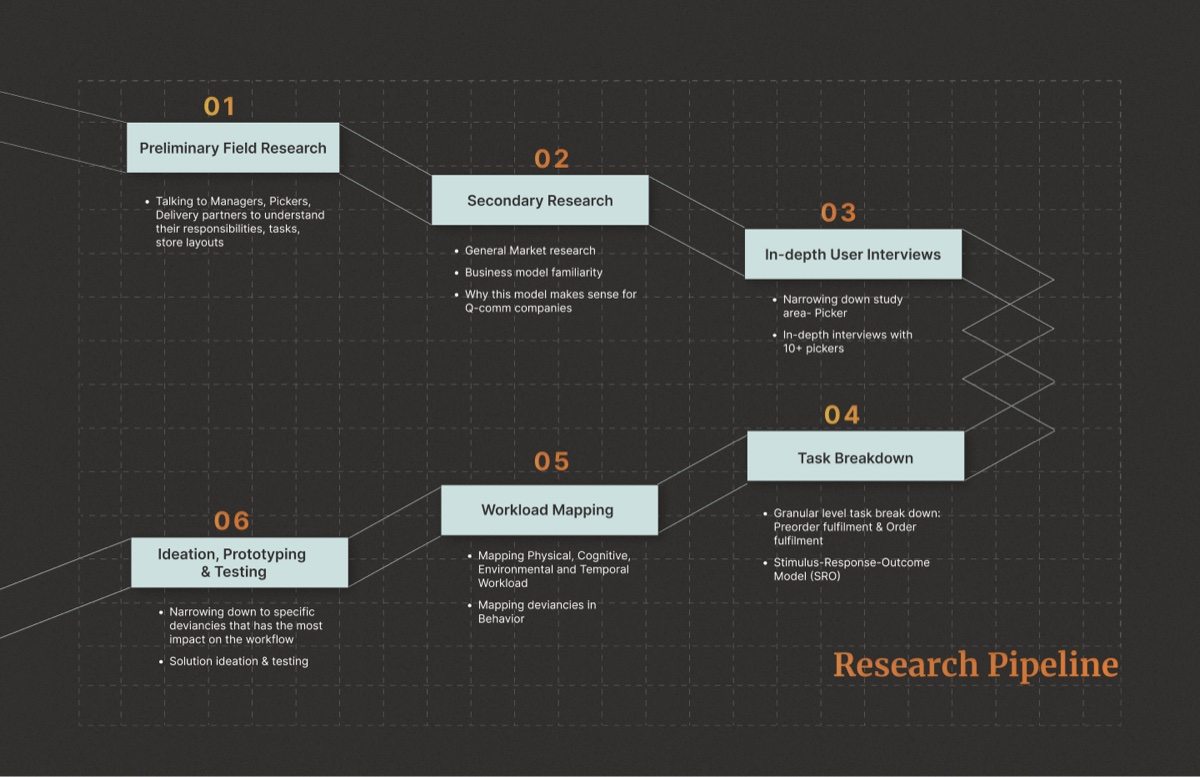
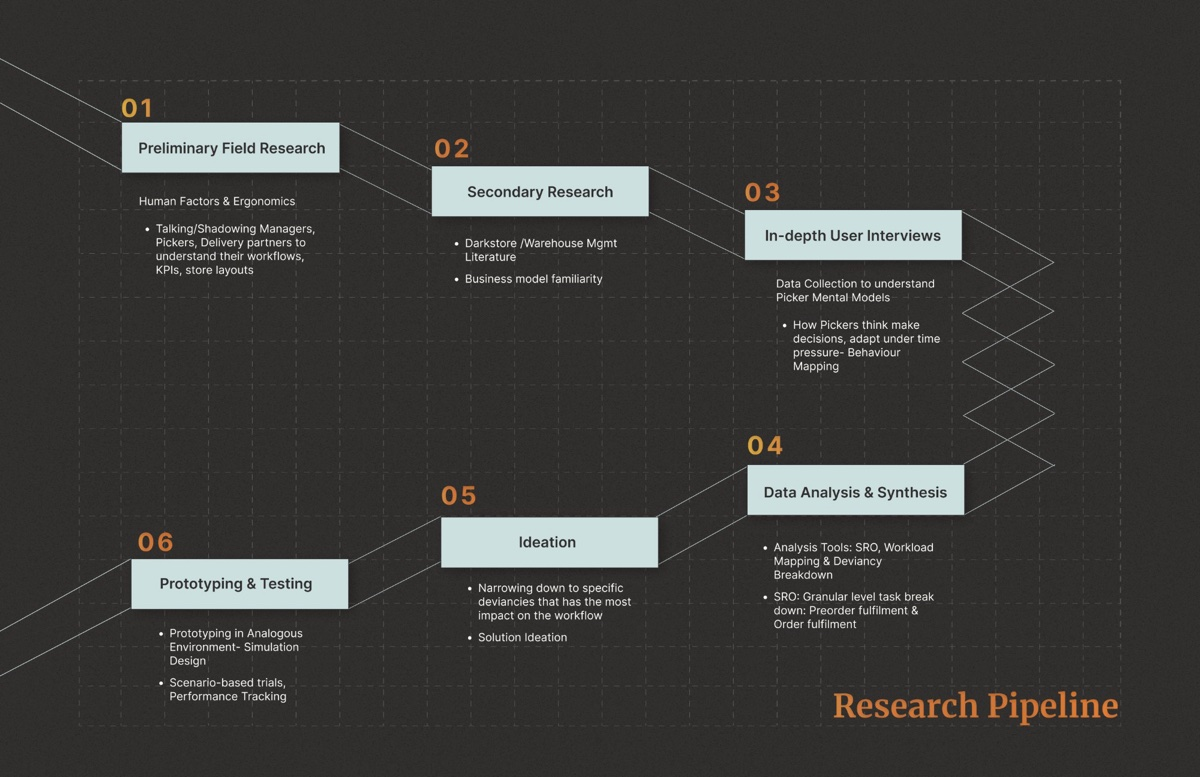
Replace the Research Pipeline slide in Last Mile Inside
Slide 3 is now the updated Research Pipeline, served at its 2000px
original and a 1200px copy; the 2400px copy of the old slide is removed.

diff --git a/last-mile-inside.html b/last-mile-inside.html
@@ -36,7 +36,7 @@
       <h1 class="visually-hidden">Last Mile Inside: Rethinking Operational efficiency in Darkstores</h1>
       <img src="assets/case-studies/lmi/01-1200.jpg" srcset="assets/case-studies/lmi/01-1200.jpg 1200w, assets/case-studies/lmi/01-2400.jpg 2400w, assets/case-studies/lmi/01-3200.jpg 3200w, assets/case-studies/lmi/01.jpg 3840w" sizes="(max-width: 640px) calc(100vw - 40px), calc(100vw - 120px)" width="3840" height="1826" alt="Last Mile Inside case study, slide 1 of 28" fetchpriority="high" decoding="async">
       <img src="assets/case-studies/lmi/02-1200.jpg" srcset="assets/case-studies/lmi/02-1200.jpg 1200w, assets/case-studies/lmi/02-2400.jpg 2400w, assets/case-studies/lmi/02.jpg 2880w" sizes="(max-width: 640px) calc(100vw - 40px), calc(100vw - 120px)" width="2880" height="1755" alt="Last Mile Inside case study, slide 2 of 28" loading="eager" decoding="async">
-      <img src="assets/case-studies/lmi/04-1200.jpg" srcset="assets/case-studies/lmi/04-1200.jpg 1200w, assets/case-studies/lmi/04-2400.jpg 2400w, assets/case-studies/lmi/04.jpg 2880w" sizes="(max-width: 640px) calc(100vw - 40px), calc(100vw - 120px)" width="2880" height="1865" alt="Last Mile Inside case study, slide 3 of 28" loading="lazy" decoding="async">
+      <img src="assets/case-studies/lmi/04-1200.jpg" srcset="assets/case-studies/lmi/04-1200.jpg 1200w, assets/case-studies/lmi/04.jpg 2000w" sizes="(max-width: 640px) calc(100vw - 40px), calc(100vw - 120px)" width="2000" height="1295" alt="Last Mile Inside case study, slide 3 of 28" loading="lazy" decoding="async">
       <img src="assets/case-studies/lmi/05-1200.jpg" srcset="assets/case-studies/lmi/05-1200.jpg 1200w, assets/case-studies/lmi/05-2400.jpg 2400w, assets/case-studies/lmi/05.jpg 2880w" sizes="(max-width: 640px) calc(100vw - 40px), calc(100vw - 120px)" width="2880" height="1368" alt="Last Mile Inside case study, slide 4 of 28" loading="lazy" decoding="async">
       <img src="assets/case-studies/lmi/06-1200.jpg" srcset="assets/case-studies/lmi/06-1200.jpg 1200w, assets/case-studies/lmi/06.jpg 2013w" sizes="(max-width: 640px) calc(100vw - 40px), calc(100vw - 120px)" width="2013" height="4096" alt="Last Mile Inside case study, slide 5 of 28" loading="lazy" decoding="async">
       <div class="slide" style="aspect-ratio: 1160 / 710.5" aria-label="Last Mile Inside case study, slide 6 of 28" role="group"><div style="background-color:#fff;position:relative;width:100%;height:100%"><div style="position:absolute;background-color:#262423;inset:0 0 calc(-4.82 * var(--u)) 0"></div><div style="position:absolute;aspect-ratio:1920 / 1080;left:calc(-51.56 * var(--u));right:calc(-51.56 * var(--u));top:50%;translate:0 -50%"><div style="position:absolute;inset:0;overflow:hidden;pointer-events:none"><img alt="" src="assets/case-studies/lmi/slides/texture-noise.png" loading="lazy" decoding="async" style="position:absolute;height:100%;left:3.99%;max-width:none;top:0;width:91.93%"></div></div><p style="overflow-wrap:break-word;position:absolute;font-family:&#x27;Inter&#x27;;font-weight:400;line-height:normal;left:calc(77.03 * var(--u));font-style:normal;color:#d9d9d9;font-size:calc(14.137 * var(--u));top:calc(124.45 * var(--u));width:calc(298.225 * var(--u))">Observations w.r.t. Workload, Work Process</p><p style="overflow-wrap:break-word;position:absolute;-webkit-background-clip:text;background-clip:text;font-family:&#x27;Merriweather&#x27;;font-weight:700;line-height:normal;left:calc(77.03 * var(--u));font-size:calc(23.865 * var(--u));color:transparent;top:calc(50% - (265.83 * var(--u)));width:calc(253.146 * var(--u));font-variation-settings:&quot;wdth&quot; 100;background-image:linear-gradient(88.71211651023332deg, rgb(229, 205, 69) 14.412%, rgba(236, 132, 63, 0.858) 28.362%, rgba(238, 130, 54, 0.85) 73.743%, rgb(238, 130, 54) 116.91%)">Key Findings</p><div style="overflow-wrap:break-word;position:absolute;display:flex;flex-direction:column;font-family:&#x27;Inter&#x27;;font-weight:300;justify-content:center;line-height:0;left:calc(151.54 * var(--u));font-style:normal;font-size:0;color:rgba(0,0,0,0.5);top:calc(295.01 * var(--u));letter-spacing:calc(-0.29 * var(--u));width:calc(186.083 * var(--u));translate:0 -50%"><p style="font-size:calc(9.667 * var(--u))"><span style="font-family:&#x27;Inter&#x27;;font-weight:600;line-height:1.2;color:#ee8236">Store Layout:</span><span style="font-family:&#x27;Inter&#x27;;font-weight:700;line-height:1.2;color:red"> </span><span style="font-family:&#x27;Inter&#x27;;font-weight:400;line-height:1.2;color:#d9d9d9">The store spans 2,800 sq. ft. with only one main point of entry and exit, creating potential accidental disasters.</span></p></div><div style="position:absolute;left:calc(82.17 * var(--u));width:calc(32.021 * var(--u));height:calc(32.021 * var(--u));top:calc(280.03 * var(--u))"><img alt="" src="assets/case-studies/lmi/slides/slide6-select-column.png" loading="lazy" decoding="async" style="position:absolute;inset:0;max-width:none;object-fit:contain;pointer-events:none;width:100%;height:100%"></div><div style="position:absolute;display:contents;left:calc(65.74 * var(--u));top:calc(392.41 * var(--u))"><p style="overflow-wrap:break-word;position:absolute;font-family:&#x27;Inter&#x27;;font-weight:300;line-height:0;left:calc(151.54 * var(--u));font-style:normal;color:#d9d9d9;font-size:calc(9.667 * var(--u));top:calc(392.41 * var(--u));letter-spacing:calc(-0.29 * var(--u));width:calc(189.708 * var(--u))"><span style="font-family:&#x27;Inter&#x27;;font-weight:600;line-height:1.3;color:#ee8236">Temperature Fluctuations</span><span style="line-height:1.3">: </span><span style="font-family:&#x27;Inter&#x27;;font-weight:400;line-height:1.3">Frequent shifts between temperature zones (freezers, chillers) cause discomfort and physical strain, impacting picker efficiency and well-being.</span></p><div style="position:absolute;display:contents;left:calc(65.74 * var(--u));top:calc(404.49 * var(--u))"><div aria-hidden="true" style="position:absolute;left:calc(65.74 * var(--u));width:calc(31.416 * var(--u));height:calc(31.416 * var(--u));top:calc(404.49 * var(--u))"><img alt="" src="assets/case-studies/lmi/slides/slide6-thermometer-down.png" loading="lazy" decoding="async" style="position:absolute;inset:0;max-width:none;object-fit:contain;pointer-events:none;width:100%;height:100%"></div><div aria-hidden="true" style="position:absolute;left:calc(98.88 * var(--u));width:calc(31.416 * var(--u));height:calc(31.416 * var(--u));top:calc(405.09 * var(--u))"><img alt="" src="assets/case-studies/lmi/slides/slide6-thermometer-up.png" loading="lazy" decoding="async" style="position:absolute;inset:0;max-width:none;object-fit:contain;pointer-events:none;width:100%;height:100%"></div></div></div><div style="position:absolute;display:contents;left:calc(80.24 * var(--u));top:calc(486.05 * var(--u))"><p style="overflow-wrap:break-word;position:absolute;font-family:&#x27;Inter&#x27;;font-weight:400;line-height:1.3;left:calc(152.74 * var(--u));font-style:normal;color:#d9d9d9;font-size:calc(9.667 * var(--u));top:calc(486.05 * var(--u));letter-spacing:calc(-0.29 * var(--u));width:calc(184.875 * var(--u))">Lack of a designated rest area forces staff to eat and rest in aisles, reducing comfort and recovery.</p><div style="position:absolute;height:calc(32.021 * var(--u));left:calc(80.24 * var(--u));top:calc(489.07 * var(--u));width:calc(31.417 * var(--u))"><img alt="" src="assets/case-studies/lmi/slides/slide6-under-pressure-male.png" loading="lazy" decoding="async" style="position:absolute;inset:0;max-width:none;object-fit:contain;pointer-events:none;width:100%;height:100%"></div></div><div style="position:absolute;display:contents;left:calc(81.45 * var(--u));top:calc(555.53 * var(--u))"><div style="overflow-wrap:break-word;position:absolute;display:flex;flex-direction:column;font-family:&#x27;Inter&#x27;;font-weight:300;justify-content:center;line-height:0;left:calc(152.74 * var(--u));font-style:normal;font-size:0;color:rgba(0,0,0,0.5);top:calc(585.53 * var(--u));letter-spacing:calc(-0.29 * var(--u));width:calc(184.875 * var(--u));translate:0 -50%"><p style="font-size:calc(9.667 * var(--u))"><span style="overflow-wrap:break-word;font-family:&#x27;Inter&#x27;;font-weight:600;line-height:1.2;font-style:normal;color:#ee8236">Passage Widths:</span><span style="line-height:1.2;color:#d9d9d9"> </span><span style="overflow-wrap:break-word;font-family:&#x27;Inter&#x27;;font-weight:400;line-height:1.2;font-style:normal;color:#d9d9d9">Non-standardized widths ranging from 28 to 50 inches create inconsistent ease of movement, contributing to collisions between Pickers in busy areas.</span></p></div><div style="position:absolute;height:calc(31.417 * var(--u));left:calc(81.45 * var(--u));top:calc(564.59 * var(--u));width:calc(30.813 * var(--u))"><img alt="" src="assets/case-studies/lmi/slides/slide6-width.png" loading="lazy" decoding="async" style="position:absolute;inset:0;max-width:none;object-fit:contain;pointer-events:none;width:100%;height:100%"></div></div><div style="position:absolute;display:contents;left:calc(65.74 * var(--u));top:calc(215.39 * var(--u))"><div style="position:absolute;display:contents;left:calc(65.74 * var(--u));top:calc(215.39 * var(--u))"><div style="position:absolute;background-color:#262423;border-color:#262423;border-width:calc(0.604 * var(--u));border-style:solid;height:calc(29.326 * var(--u));left:calc(67.01 * var(--u));top:calc(216.82 * var(--u));width:calc(112.903 * var(--u))"></div><div style="position:absolute;background-color:#d9d9d9;border-color:#262423;border-width:calc(0.604 * var(--u));border-style:solid;height:calc(29.44 * var(--u));left:calc(65.74 * var(--u));top:calc(215.39 * var(--u));width:calc(112.862 * var(--u))"></div></div><p style="overflow-wrap:break-word;position:absolute;font-family:&#x27;Inter&#x27;;font-weight:700;line-height:1.3;left:calc(75.85 * var(--u));font-style:normal;color:#262423;font-size:calc(12.083 * var(--u));top:calc(222.64 * var(--u));letter-spacing:calc(-0.3625 * var(--u));width:calc(133.193 * var(--u))">Environmental</p></div><div style="overflow-wrap:break-word;position:absolute;display:flex;flex-direction:column;font-family:&#x27;Inter&#x27;;font-weight:400;justify-content:center;line-height:0;left:calc(151.54 * var(--u));font-style:normal;color:#d9d9d9;font-size:calc(9.667 * var(--u));top:calc(354.86 * var(--u));letter-spacing:calc(-0.29 * var(--u));width:calc(186.083 * var(--u));translate:0 -50%"><p style="line-height:1.2">Most frequently ordered 1500 SKUs placed near the centre packing table </p></div><div style="position:absolute;left:calc(80.96 * var(--u));width:calc(32.021 * var(--u));height:calc(32.021 * var(--u));top:calc(338.64 * var(--u))"><img alt="" src="assets/case-studies/lmi/slides/slide6-store-setting.png" loading="lazy" decoding="async" style="position:absolute;inset:0;max-width:none;object-fit:contain;pointer-events:none;width:100%;height:100%"></div><div style="position:absolute;display:contents;left:calc(436.7 * var(--u));top:calc(136.54 * var(--u))"><div style="position:absolute;display:contents;left:calc(436.7 * var(--u));top:calc(136.54 * var(--u))"><div style="overflow-wrap:break-word;position:absolute;display:flex;flex-direction:column;font-family:&#x27;Inter&#x27;;font-weight:300;justify-content:center;line-height:0;left:calc(523.81 * var(--u));font-style:normal;color:#d9d9d9;font-size:calc(9.667 * var(--u));top:calc(359.35 * var(--u));letter-spacing:calc(-0.29 * var(--u));width:calc(188.5 * var(--u));translate:0 -50%"><p><span style="font-family:&#x27;Inter&#x27;;font-weight:600;line-height:1.2;color:#ee8236">Overhead Shelf Accessibility:</span><span style="font-family:&#x27;Inter&#x27;;font-weight:600;line-height:1.2"> </span><span style="font-family:&#x27;Inter&#x27;;font-weight:400;line-height:1.2">Stepper stools are available to improve visibility and access to overhead items.</span></p></div><div style="overflow-wrap:break-word;position:absolute;display:flex;flex-direction:column;font-family:&#x27;Inter&#x27;;font-weight:300;justify-content:center;line-height:0;left:calc(522.61 * var(--u));font-style:normal;color:#d9d9d9;font-size:calc(9.667 * var(--u));top:calc(222.17 * var(--u));letter-spacing:calc(-0.29 * var(--u));width:calc(189.708 * var(--u));translate:0 -50%"><p><span style="font-family:&#x27;Inter&#x27;;font-weight:600;line-height:1.2;color:#ee8236">Movement &amp; Posture: </span><span style="font-family:&#x27;Inter&#x27;;font-weight:400;line-height:1.2">Fast-paced item collection leads to frequent sprints, causing physical fatigue and straining posture over time.</span></p></div><div style="overflow-wrap:break-word;position:absolute;display:flex;flex-direction:column;font-family:&#x27;Inter&#x27;;font-weight:300;justify-content:center;line-height:0;left:calc(522.61 * var(--u));font-style:normal;color:#d9d9d9;font-size:calc(9.667 * var(--u));top:calc(293.5 * var(--u));letter-spacing:calc(-0.29 * var(--u));width:calc(193.333 * var(--u));translate:0 -50%"><p><span style="font-family:&#x27;Inter&#x27;;font-weight:600;line-height:1.2;color:#ee8236">Product Handling</span><span style="font-family:&#x27;Inter&#x27;;font-weight:600;line-height:1.2">: </span><span style="font-family:&#x27;Inter&#x27;;font-weight:400;line-height:1.2">Heavy baskets strain fingers; repetitive scanning and rescans increase wrist fatigue and risk of injury. </span></p></div><div style="overflow-wrap:break-word;position:absolute;display:flex;flex-direction:column;font-family:&#x27;Inter&#x27;;font-weight:300;justify-content:center;line-height:0;left:calc(523.81 * var(--u));font-style:normal;color:#d9d9d9;font-size:calc(9.667 * var(--u));top:calc(431.21 * var(--u));letter-spacing:calc(-0.29 * var(--u));width:calc(188.5 * var(--u));translate:0 -50%"><p><span style="font-family:&#x27;Inter&#x27;;font-weight:600;line-height:1.2;color:#ee8236">Tools Usage: </span><span style="font-family:&#x27;Inter&#x27;;font-weight:400;line-height:1.2">Using stepper stools in narrow isles hinder its use, leading pickers to adopt risky manual retrievals and potential physical strain.</span></p></div><div style="overflow-wrap:break-word;position:absolute;display:flex;flex-direction:column;font-family:&#x27;Inter&#x27;;font-weight:300;justify-content:center;line-height:0;left:calc(523.81 * var(--u));font-style:normal;color:#d9d9d9;font-size:calc(9.667 * var(--u));top:calc(502.54 * var(--u));letter-spacing:calc(-0.29 * var(--u));width:calc(188.5 * var(--u));translate:0 -50%"><p><span style="overflow-wrap:break-word;font-family:&#x27;Inter&#x27;;font-weight:600;line-height:1.2;font-style:normal;color:#ee8236">Idle Time:</span><span style="line-height:1.2"> </span><span style="overflow-wrap:break-word;font-family:&#x27;Inter&#x27;;font-weight:400;line-height:1.2;font-style:normal">Pickers prefer standing during idle time to stay alert, but prolonged standing often leads to fatigue.</span></p></div><div style="position:absolute;left:calc(453.73 * var(--u));width:calc(31.417 * var(--u));height:calc(31.417 * var(--u));top:calc(484.54 * var(--u))"><img alt="" src="assets/case-studies/lmi/slides/slide6-brake-warning.png" loading="lazy" decoding="async" style="position:absolute;inset:0;max-width:none;object-fit:contain;pointer-events:none;width:100%;height:100%"></div><div style="position:absolute;display:contents;left:calc(436.7 * var(--u));top:calc(136.54 * var(--u))"><div style="position:absolute;background-color:#262423;border-color:#262423;border-width:calc(0.604 * var(--u));border-style:solid;height:calc(29.326 * var(--u));left:calc(437.97 * var(--u));top:calc(137.97 * var(--u));width:calc(112.903 * var(--u))"></div><div style="position:absolute;background-color:#d9d9d9;border-color:#262423;border-width:calc(0.604 * var(--u));border-style:solid;height:calc(29.44 * var(--u));left:calc(436.7 * var(--u));top:calc(136.54 * var(--u));width:calc(112.862 * var(--u))"></div><p style="overflow-wrap:break-word;position:absolute;font-family:&#x27;Inter&#x27;;font-weight:700;line-height:1.3;left:calc(446.81 * var(--u));font-style:normal;color:#262423;font-size:calc(12.083 * var(--u));top:calc(143.79 * var(--u));letter-spacing:calc(-0.3625 * var(--u));width:calc(133.193 * var(--u))">Physical</p></div><div style="position:absolute;left:calc(453.73 * var(--u));width:calc(32.021 * var(--u));height:calc(32.021 * var(--u));top:calc(411.44 * var(--u))"><img alt="" src="assets/case-studies/lmi/slides/slide6-picnic-table.png" loading="lazy" decoding="async" style="position:absolute;inset:0;max-width:none;object-fit:contain;pointer-events:none;width:100%;height:100%"></div><div style="position:absolute;left:calc(453.73 * var(--u));width:calc(32.021 * var(--u));height:calc(32.021 * var(--u));top:calc(205.42 * var(--u))"><img alt="" src="assets/case-studies/lmi/slides/slide6-running.png" loading="lazy" decoding="async" style="position:absolute;inset:0;max-width:none;object-fit:contain;pointer-events:none;width:100%;height:100%"></div><div style="position:absolute;left:calc(453.73 * var(--u));width:calc(32.021 * var(--u));height:calc(32.021 * var(--u));top:calc(341.35 * var(--u))"><img alt="" src="assets/case-studies/lmi/slides/slide6-grocery-shelf.png" loading="lazy" decoding="async" style="position:absolute;inset:0;max-width:none;object-fit:contain;pointer-events:none;width:100%;height:100%"></div><div style="position:absolute;left:calc(453.73 * var(--u));width:calc(32.021 * var(--u));height:calc(32.021 * var(--u));top:calc(275.5 * var(--u))"><img alt="" src="assets/case-studies/lmi/slides/slide6-manual-handling.png" loading="lazy" decoding="async" style="position:absolute;inset:0;max-width:none;object-fit:contain;pointer-events:none;width:100%;height:100%"></div></div><div style="position:absolute;display:contents;left:calc(436.7 * var(--u));top:calc(555.23 * var(--u))"><div style="position:absolute;display:contents;left:calc(436.7 * var(--u));top:calc(555.23 * var(--u))"><div style="position:absolute;display:contents;left:calc(436.7 * var(--u));top:calc(555.23 * var(--u))"><div style="position:absolute;background-color:#262423;border-color:#262423;border-width:calc(0.604 * var(--u));border-style:solid;height:calc(29.326 * var(--u));left:calc(437.97 * var(--u));top:calc(556.66 * var(--u));width:calc(112.903 * var(--u))"></div><div style="position:absolute;background-color:#d9d9d9;border-color:#262423;border-width:calc(0.604 * var(--u));border-style:solid;height:calc(29.44 * var(--u));left:calc(436.7 * var(--u));top:calc(555.23 * var(--u));width:calc(112.862 * var(--u))"></div></div><p style="overflow-wrap:break-word;position:absolute;font-family:&#x27;Inter&#x27;;font-weight:700;height:calc(9.298 * var(--u));line-height:1.3;left:calc(446.81 * var(--u));font-style:normal;color:#262423;font-size:calc(12.083 * var(--u));top:calc(562.48 * var(--u));letter-spacing:calc(-0.3625 * var(--u));width:calc(133.193 * var(--u))">Cognitive</p></div><div style="overflow-wrap:break-word;position:absolute;display:flex;flex-direction:column;font-family:&#x27;Inter&#x27;;font-weight:300;font-style:italic;justify-content:center;line-height:0;left:calc(523.81 * var(--u));color:#d9d9d9;font-size:calc(9.667 * var(--u));top:calc(640.85 * var(--u));letter-spacing:calc(-0.29 * var(--u));width:calc(188.5 * var(--u));translate:0 -50%"><p style="font-style:normal"><span style="font-family:&#x27;Inter&#x27;;font-weight:600;line-height:1.2;color:#ee8236">Audio Prompts &amp; Vigilance: </span><span style="font-family:&#x27;Inter&#x27;;font-weight:400;line-height:1.2">Constant alerts about new orders disrupt focus, causing mental overload and reduced cognitive balance.</span></p></div><div style="position:absolute;left:calc(453.73 * var(--u));width:calc(32.021 * var(--u));height:calc(32.021 * var(--u));top:calc(621.08 * var(--u))"><img alt="" src="assets/case-studies/lmi/slides/slide6-heroicons-outline-bell-alert.svg" loading="lazy" decoding="async" style="position:absolute;display:block;inset:0;max-width:none;width:100%;height:100%"></div></div></div><div style="position:absolute;display:contents;left:calc(803.43 * var(--u));top:calc(134.13 * var(--u))"><div style="position:absolute;display:contents;left:calc(803.43 * var(--u));top:calc(370.96 * var(--u))"><div style="position:absolute;display:contents;left:calc(803.43 * var(--u));top:calc(370.96 * var(--u))"><div style="position:absolute;background-color:#262423;border-color:#262423;border-width:calc(0.604 * var(--u));border-style:solid;height:calc(29.326 * var(--u));left:calc(804.7 * var(--u));top:calc(372.39 * var(--u));width:calc(112.903 * var(--u))"></div><div style="position:absolute;background-color:#d9d9d9;border-color:#262423;border-width:calc(0.604 * var(--u));border-style:solid;height:calc(29.44 * var(--u));left:calc(803.43 * var(--u));top:calc(370.96 * var(--u));width:calc(112.862 * var(--u))"></div></div><p style="overflow-wrap:break-word;position:absolute;font-family:&#x27;Inter&#x27;;font-weight:700;height:calc(9.298 * var(--u));line-height:1.3;left:calc(813.53 * var(--u));font-style:normal;color:#262423;font-size:calc(12.083 * var(--u));top:calc(378.21 * var(--u));letter-spacing:calc(-0.3625 * var(--u));width:calc(133.193 * var(--u))">Temporal</p></div><div style="overflow-wrap:break-word;position:absolute;display:flex;flex-direction:column;font-family:&#x27;Inter&#x27;;font-weight:300;justify-content:center;line-height:0;left:calc(888.73 * var(--u));font-style:normal;color:#d9d9d9;font-size:calc(9.667 * var(--u));top:calc(235.46 * var(--u));letter-spacing:calc(-0.29 * var(--u));width:calc(189.708 * var(--u));translate:0 -50%"><p><span style="font-family:&#x27;Inter&#x27;;font-weight:600;line-height:1.2;color:#ee8236">Picking Sequence Variability:</span><span style="font-family:&#x27;Inter&#x27;;font-weight:600;line-height:1.2;color:#ee8236"> </span><span style="font-family:&#x27;Inter&#x27;;font-weight:400;line-height:1.2">Most Pickers follow an optimised company given algorithm to pick orders in a certain sequence.</span></p></div><div style="overflow-wrap:break-word;position:absolute;display:flex;flex-direction:column;font-family:&#x27;Inter&#x27;;font-weight:300;justify-content:center;line-height:0;left:calc(888.73 * var(--u));font-style:normal;color:#d9d9d9;font-size:calc(9.667 * var(--u));top:calc(312.79 * var(--u));letter-spacing:calc(-0.29 * var(--u));width:calc(193.333 * var(--u));translate:0 -50%"><p><span style="font-family:&#x27;Inter&#x27;;font-weight:600;line-height:1.2;color:#ee8236">Picking Sequence Variability:</span><span style="font-family:&#x27;Inter&#x27;;font-weight:400;line-height:1.2"> Some pickers don’t follow this sequence, and have developed their own algorithm, which is faster and more optimised.</span></p></div><div style="overflow-wrap:break-word;position:absolute;display:flex;flex-direction:column;font-family:&#x27;Inter&#x27;;font-weight:300;justify-content:center;line-height:0;left:calc(889.94 * var(--u));font-style:normal;color:#d9d9d9;font-size:calc(9.667 * var(--u));top:calc(158.13 * var(--u));letter-spacing:calc(-0.29 * var(--u));width:calc(188.5 * var(--u));translate:0 -50%"><p style="font-family:&#x27;Inter&#x27;;font-weight:600;line-height:1.2;margin-bottom:0;color:#ee8236">Pickers Collaborative Cognitive Load:</p><p style="font-family:&#x27;Inter&#x27;;font-weight:400;line-height:1.2">Helping peers eases task load but adds distractions and demands higher mental coordination.</p></div><div style="overflow-wrap:break-word;position:absolute;display:flex;flex-direction:column;font-family:&#x27;Inter&#x27;;font-weight:300;font-style:italic;justify-content:center;line-height:0;left:calc(890.54 * var(--u));color:#d9d9d9;font-size:calc(9.667 * var(--u));top:calc(457.15 * var(--u));letter-spacing:calc(-0.29 * var(--u));width:calc(188.5 * var(--u));translate:0 -50%"><p style="font-style:normal;white-space:pre-wrap"><span style="font-family:&#x27;Inter&#x27;;font-weight:600;line-height:1.2;color:#ee8236">Order Completion Time:</span><span style="font-family:&#x27;Inter&#x27;;font-weight:600;line-height:1.2"> </span><span style="font-family:&#x27;Inter&#x27;;font-weight:700;line-height:1.2;color:#ee8236"> </span><span style="font-family:&#x27;Inter&#x27;;font-weight:400;line-height:1.2;color:#d9d9d9">P</span><span style="font-family:&#x27;Inter&#x27;;font-weight:400;line-height:1.2">ressure to complete the order within two minutes especially during peak hours. Micro delays and scanning errors further aggravate the time pressure</span></p></div><div style="overflow-wrap:break-word;position:absolute;display:flex;flex-direction:column;font-family:&#x27;Inter&#x27;;font-weight:300;justify-content:center;line-height:0;left:calc(890.54 * var(--u));font-style:normal;color:#d9d9d9;font-size:calc(9.667 * var(--u));top:calc(539.96 * var(--u));letter-spacing:calc(-0.29 * var(--u));width:calc(188.5 * var(--u));translate:0 -50%"><p><span style="font-family:&#x27;Inter&#x27;;font-weight:600;line-height:1.2;color:#ee8236">Unpredictable Workflow:</span><span style="font-family:&#x27;Inter&#x27;;font-weight:700;line-height:1.2;color:#ee8236"> </span><span style="font-family:&#x27;Inter&#x27;;font-weight:400;line-height:1.2">The volume of orders can fluctuate unpredictably, leading to periods of overwhelming workload interspersed with short idle times.</span></p></div><div style="position:absolute;left:calc(820.46 * var(--u));width:calc(31.417 * var(--u));height:calc(31.417 * var(--u));top:calc(140.17 * var(--u))"><img alt="" src="assets/case-studies/lmi/slides/slide6-heroicons-outline-users.svg" loading="lazy" decoding="async" style="position:absolute;display:block;inset:0;max-width:none;width:100%;height:100%"></div><div style="position:absolute;left:calc(820.46 * var(--u));width:calc(32.021 * var(--u));height:calc(32.021 * var(--u));top:calc(218.71 * var(--u))"><img alt="" src="assets/case-studies/lmi/slides/slide6-workflow.png" loading="lazy" decoding="async" style="position:absolute;inset:0;max-width:none;object-fit:contain;pointer-events:none;width:100%;height:100%"></div><div style="position:absolute;display:flex;align-items:center;justify-content:center;left:calc(820.46 * var(--u));width:calc(32.021 * var(--u));height:calc(32.021 * var(--u));top:calc(296.04 * var(--u))"><div style="flex:none;rotate:180deg"><div style="position:relative;width:calc(32.021 * var(--u));height:calc(32.021 * var(--u))"><img alt="" src="assets/case-studies/lmi/slides/slide6-workflow.png" loading="lazy" decoding="async" style="position:absolute;inset:0;max-width:none;object-fit:contain;pointer-events:none;width:100%;height:100%"></div></div></div><div style="position:absolute;left:calc(816.23 * var(--u));width:calc(26.583 * var(--u));height:calc(26.583 * var(--u));top:calc(439.83 * var(--u))"><img alt="" src="assets/case-studies/lmi/slides/slide6-heroicons-outline-clipboard-document-list.svg" loading="lazy" decoding="async" style="position:absolute;display:block;inset:0;max-width:none;width:100%;height:100%"></div><div style="position:absolute;height:calc(18.729 * var(--u));left:calc(838.58 * var(--u));top:calc(453.13 * var(--u));width:calc(18.125 * var(--u))"><img alt="" src="assets/case-studies/lmi/slides/slide6-heroicons-outline-clock.svg" loading="lazy" decoding="async" style="position:absolute;display:block;inset:0;max-width:none;width:100%;height:100%"></div><div style="position:absolute;left:calc(828.31 * var(--u));width:calc(24.167 * var(--u));height:calc(24.167 * var(--u));top:calc(526.23 * var(--u))"><img alt="" src="assets/case-studies/lmi/slides/slide6-heroicons-outline-chart-bar.svg" loading="lazy" decoding="async" style="position:absolute;display:block;inset:0;max-width:none;width:100%;height:100%"></div><div style="position:absolute;height:calc(24.167 * var(--u));left:calc(816.23 * var(--u));top:calc(518.98 * var(--u));width:calc(23.563 * var(--u))"><img alt="" src="assets/case-studies/lmi/slides/slide6-heroicons-outline-arrow-trending-up.svg" loading="lazy" decoding="async" style="position:absolute;display:block;inset:0;max-width:none;width:100%;height:100%"></div></div><div style="position:absolute;height:calc(94.939 * var(--u));left:0;top:calc(1080.06 * var(--u));width:calc(1920 * var(--u))"><div style="position:absolute;inset:0;overflow:hidden;pointer-events:none"><img alt="" src="assets/case-studies/lmi/slides/texture-noise.png" loading="lazy" decoding="async" style="position:absolute;height:1137.58%;left:0;max-width:none;top:-924.87%;width:100%"></div></div></div></div>
